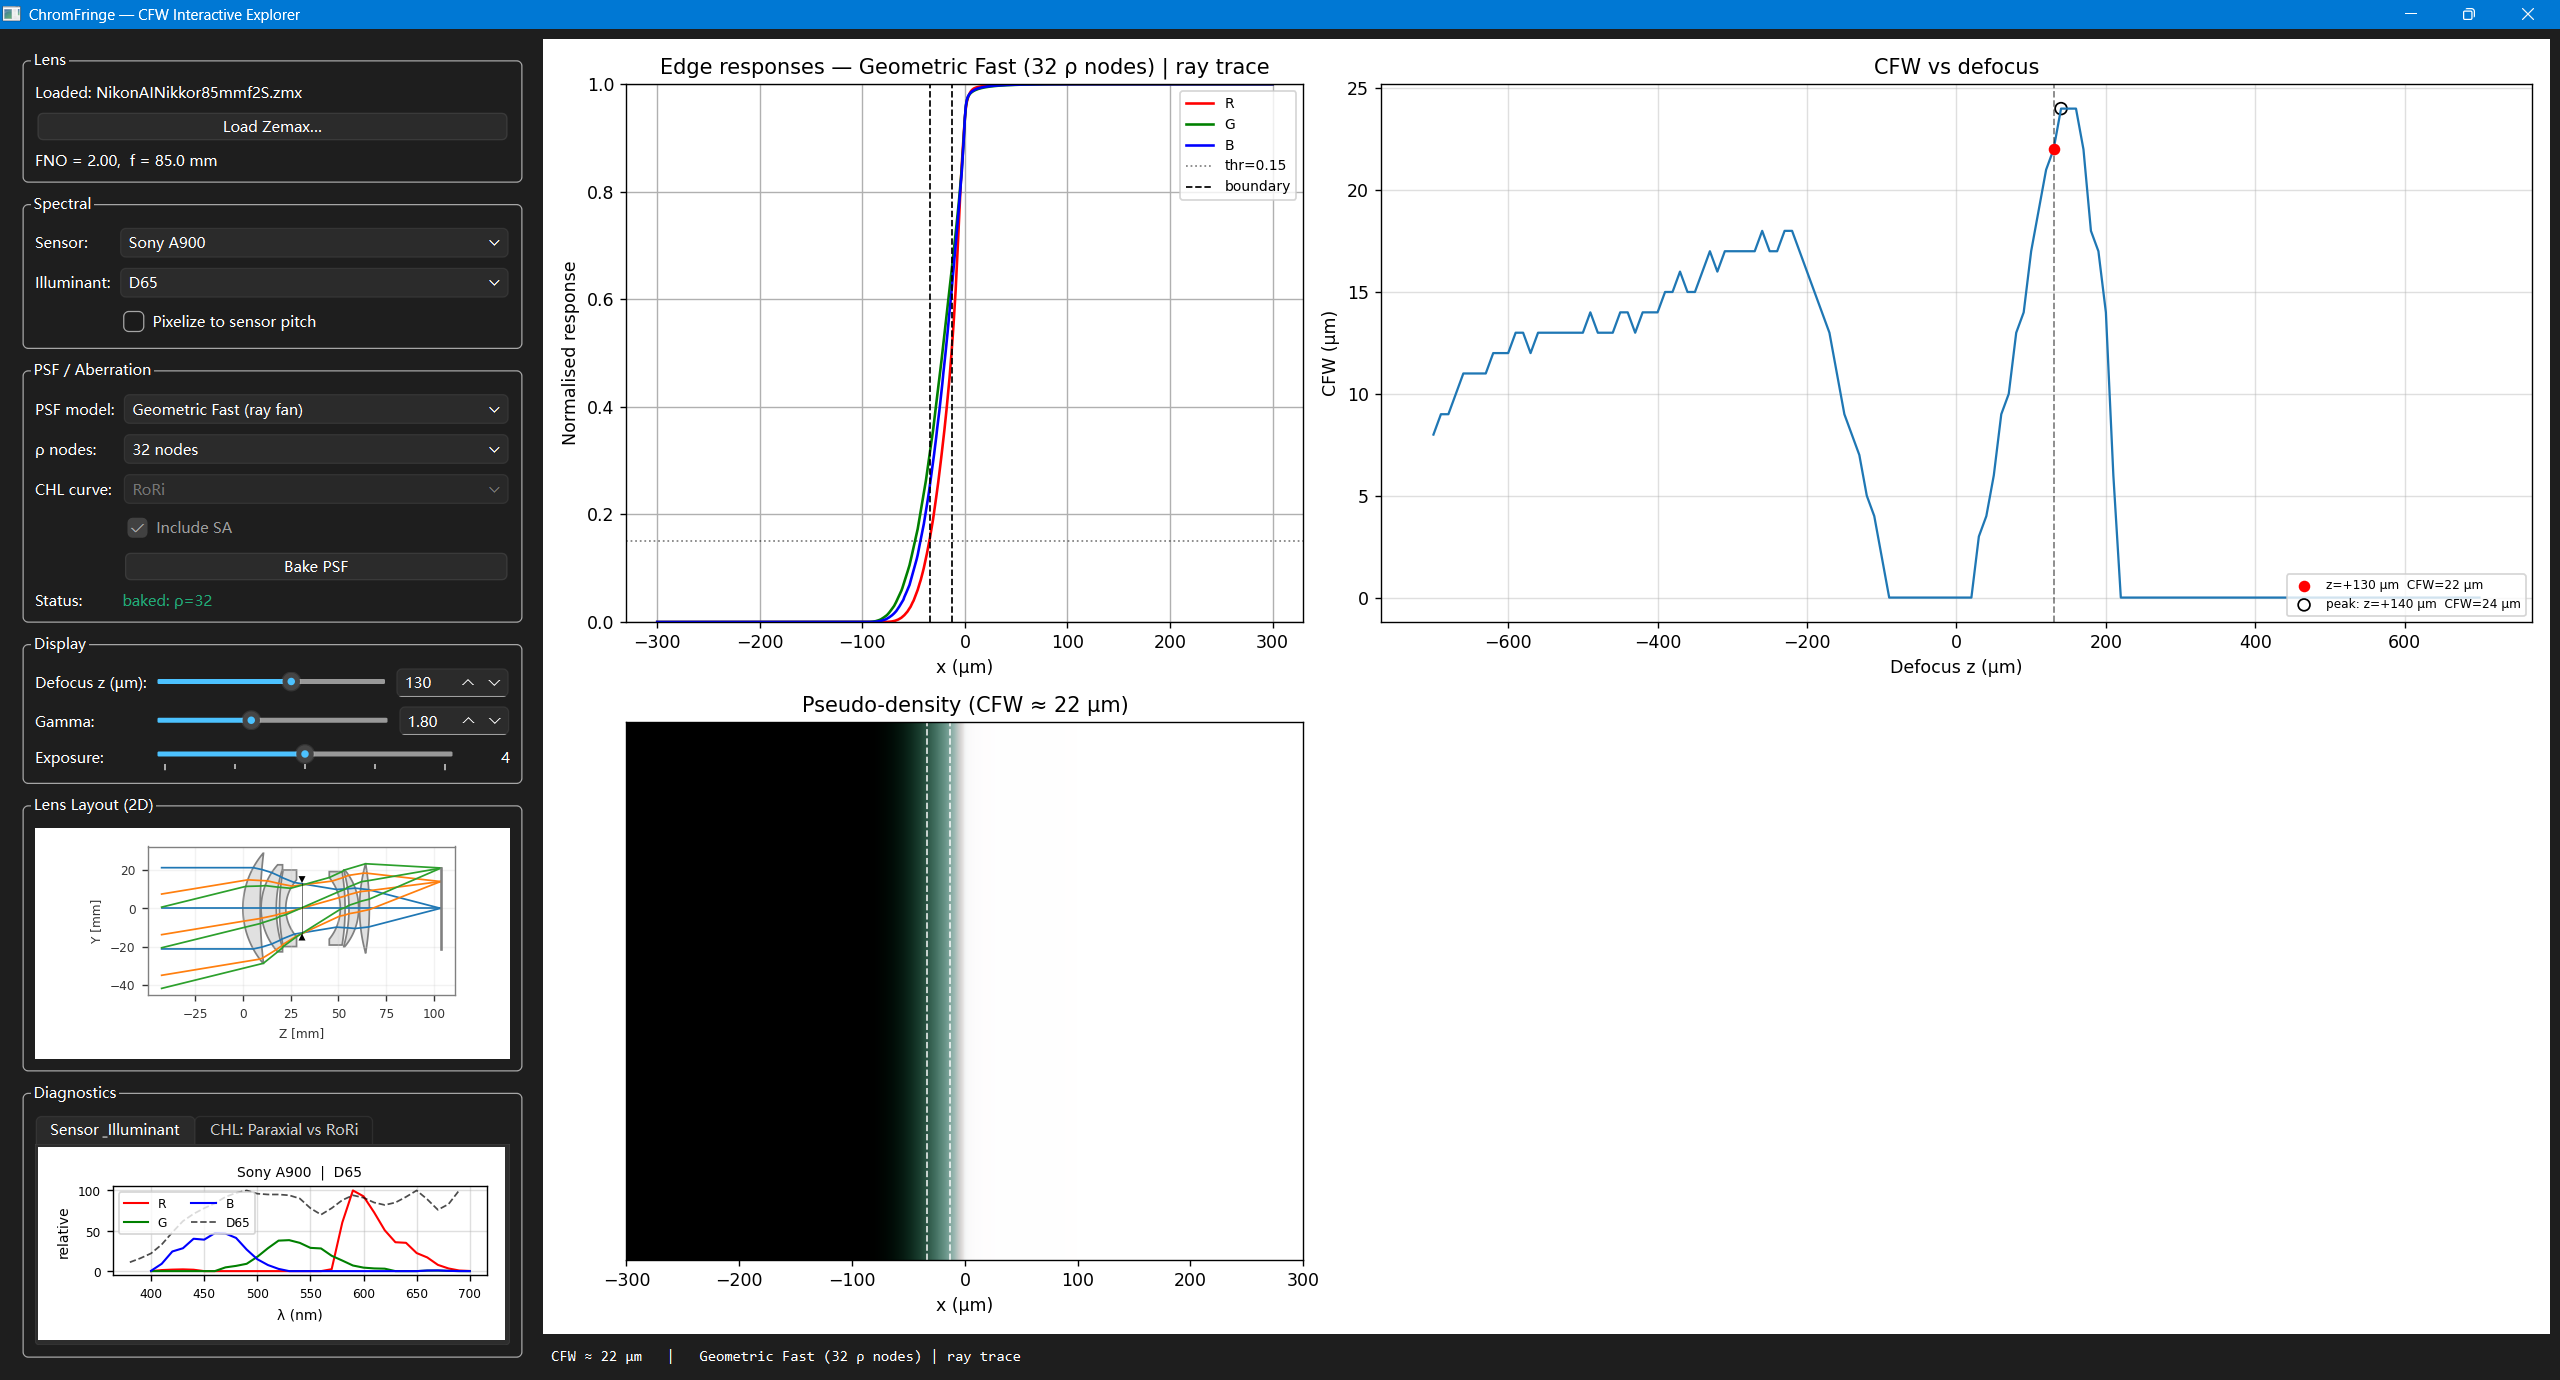
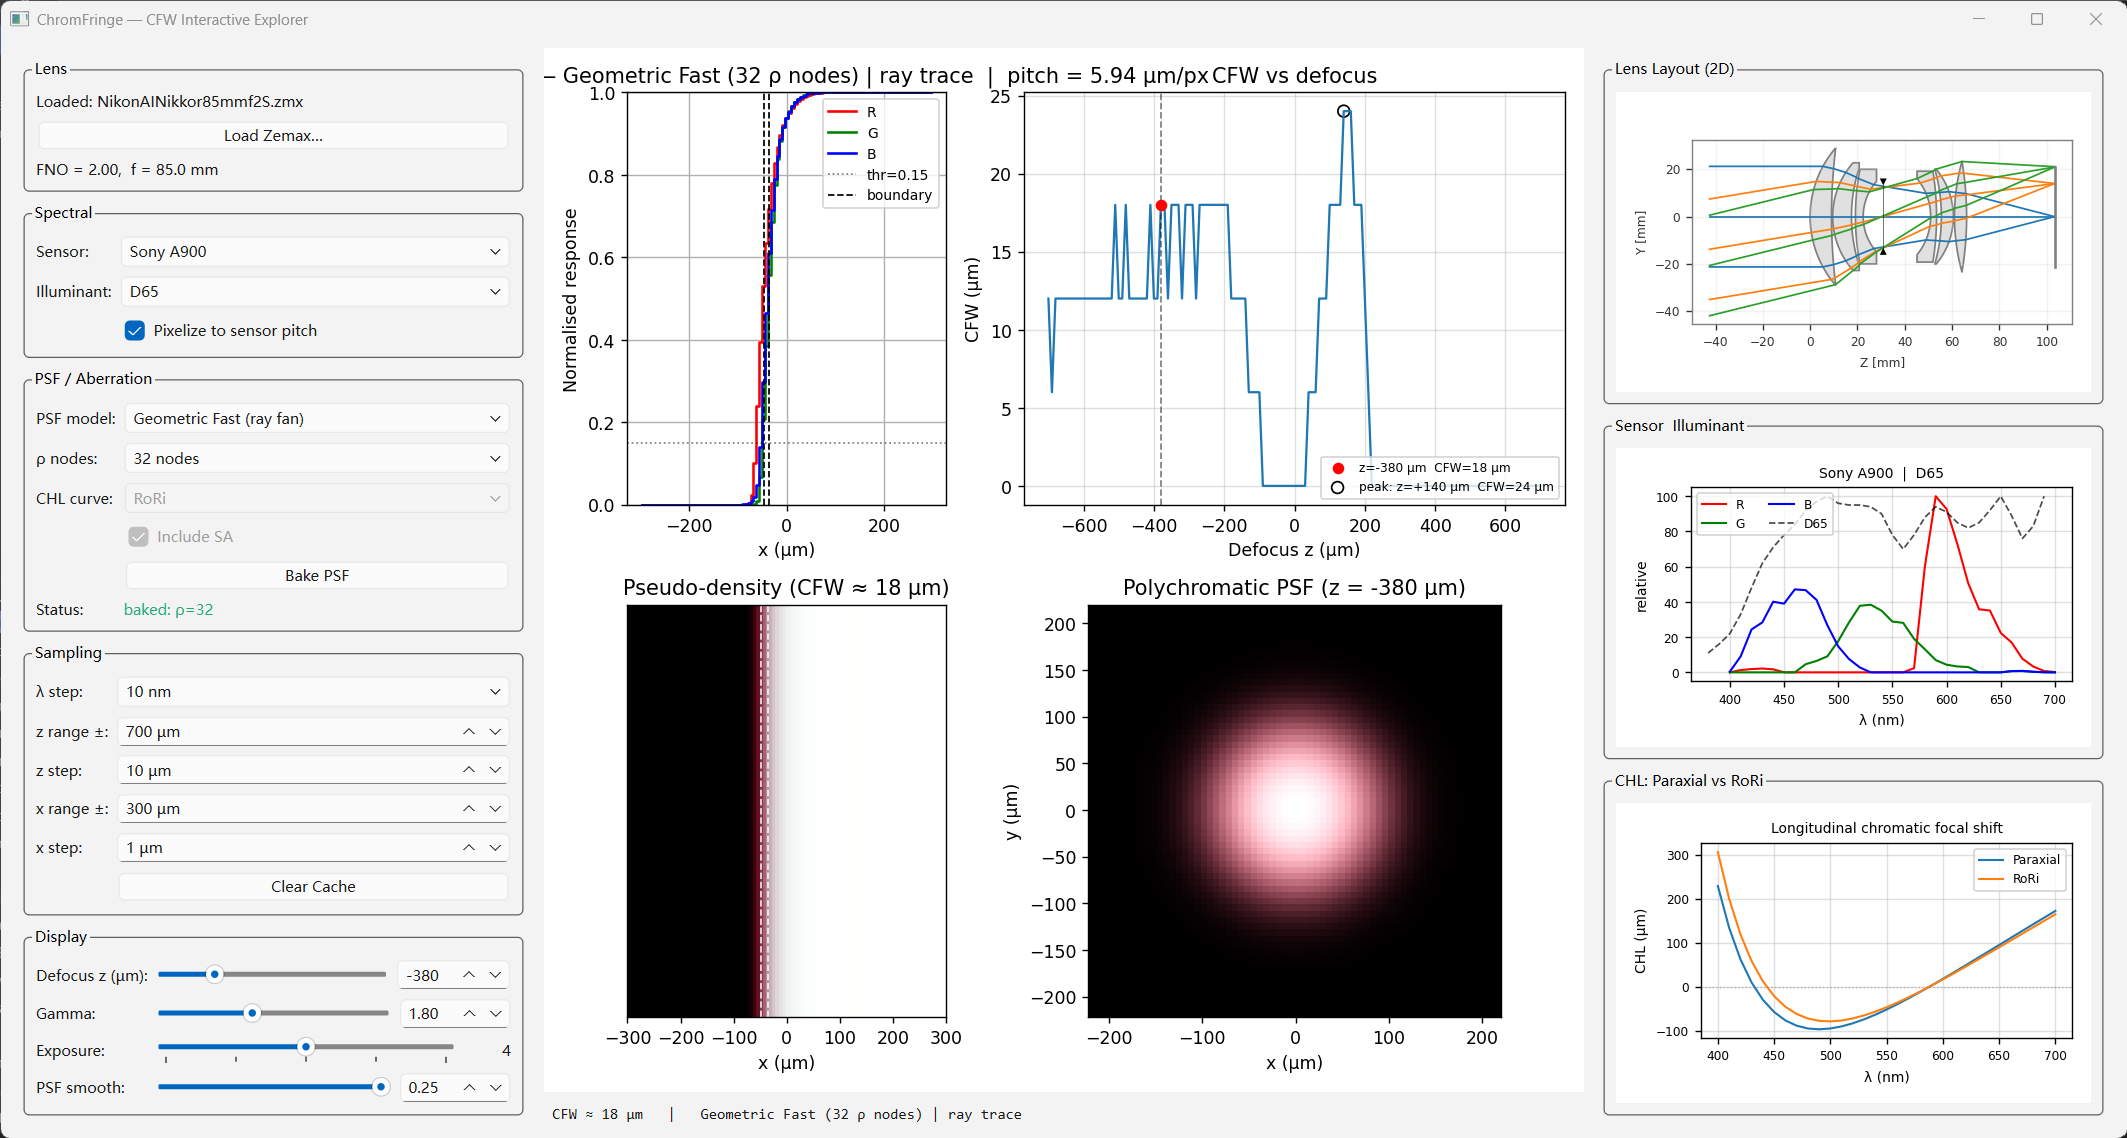
normalize Ray-fan PSF to center=1, apply pixelization to polyPSF plot

diff --git a/src/chromf/gui.py b/src/chromf/gui.py
@@ -36,6 +36,8 @@ from optiland import fileio
 from optiland.physical_apertures import RadialAperture
 from optiland.visualization import OpticViewer
 
+from scipy.ndimage import gaussian_filter
+
 from chromf import (
     channel_products,
     compute_chl_curve,
@@ -176,20 +178,40 @@ def tone_map(raw: np.ndarray, exposure: float, gamma: float) -> np.ndarray:
 
 
 def psf_2d_geom(rf: dict, z: float, n: int = 200,
-                extent_um: float | None = None) -> tuple[tuple, np.ndarray]:
+                extent_um: float | None = None,
+                rho_dense_n: int = 512,
+                smooth_factor: float = 0.25,
+                ) -> tuple[tuple, np.ndarray]:
     """Polychromatic geometric PSF as an RGB image, from a baked ray fan.
 
-    Each (ρ_k, λ_j) pupil-zone ray lands at radius ``R = |TA0 + slope·z|``;
-    we histogram those radii (weighted by ρ·W_gl pupil-area weights and
-    ``g_norm`` per channel) and revolve into a 2-D image.
-    """
-    TA0   = rf["TA0"]
-    slope = rf["slope"]
-    rho   = rf["rho_nodes"]
-    W_gl  = rf["W_gl"]
+    Each pupil zone ρ at wavelength λ lands at image radius
+    ``R(ρ; z, λ) = |TA0(ρ, λ) + slope(ρ, λ) · z|``.  The baked ray fan only
+    has K (default 32) Gauss-Legendre ρ nodes — too sparse for a smooth
+    radial histogram at large defocus, where adjacent radii can be wider
+    than a bin and create empty-bin black-ring artefacts.
 
-    R = np.abs(TA0 + slope * float(z))                  # (K, N_wl)
-    pupil_w = (rho * W_gl)[:, None]                     # (K, 1)
+    We linearly interpolate TA0 and slope onto a dense uniform ρ grid
+    (default 512 points) before histogramming.  Pupil-area weights become
+    the trivial ``ρ · Δρ`` and per-channel ``g_norm`` is interpolated onto
+    that dense grid (constant per λ, so just copied).
+    """
+    TA0_k   = rf["TA0"]                                 # (K, N_wl)
+    slope_k = rf["slope"]
+    rho_k   = rf["rho_nodes"]                           # (K,)
+    K, N_wl = TA0_k.shape
+
+    rho_d = np.linspace(rho_k[0], rho_k[-1], rho_dense_n)
+    drho  = float(rho_d[1] - rho_d[0])
+
+    # Linear interpolation along ρ for each wavelength column.
+    TA0   = np.empty((rho_dense_n, N_wl), dtype=np.float64)
+    slope = np.empty_like(TA0)
+    for j in range(N_wl):
+        TA0[:, j]   = np.interp(rho_d, rho_k, TA0_k[:, j])
+        slope[:, j] = np.interp(rho_d, rho_k, slope_k[:, j])
+
+    R = np.abs(TA0 + slope * float(z))                  # (rho_dense_n, N_wl)
+    pupil_w = (rho_d * drho)[:, None]                   # (rho_dense_n, 1)
 
     if extent_um is None:
         extent_um = max(50.0, 1.5 * float(R.max()))
@@ -206,10 +228,22 @@ def psf_2d_geom(rf: dict, z: float, n: int = 200,
     img = np.zeros((n, n, 3), dtype=np.float64)
     for c, ch in enumerate(("R", "G", "B")):
         g = rf[ch]["g_norm"]                            # (N_wl,)
-        weights = (pupil_w * g[None, :]).ravel()        # (K · N_wl,)
+        weights = (pupil_w * g[None, :]).ravel()
         I_r, _ = np.histogram(R.ravel(), bins=edges, weights=weights)
         I_r = I_r / ring_area
         img[:, :, c] = np.interp(R_2d, centers, I_r, left=I_r[0], right=0.0)
+
+    # Soften the spherical-aberration caustic so the centre doesn't read
+    # as non-physically pitch-black.  σ scales with R_max so far-defocus
+    # PSFs (whose caustic dark holes are also bigger) get proportionally
+    # more blur, mimicking diffraction + glass scatter fill-in in real
+    # imaging.  PSF outer envelope is preserved; only fine ring structure
+    # is softened.
+    pixel_um = 2.0 * extent_um / n
+    if smooth_factor > 0.0:
+        sigma_um = max(2.0, float(smooth_factor) * float(R.max()))
+        sigma_px = sigma_um / pixel_um
+        img = gaussian_filter(img, sigma=(sigma_px, sigma_px, 0.0))
 
     return (-extent_um, extent_um, -extent_um, extent_um), img
 
@@ -592,9 +626,14 @@ class ChromFringeWindow(QtWidgets.QMainWindow):
         self.sl_z = FloatSlider(-DEFOCUS_RANGE, DEFOCUS_RANGE, DEFOCUS_STEP, 0.0)
         self.sl_g = FloatSlider(1.0, 3.0, 0.1, GAMMA_DEFAULT)
         self.sl_e = ChoiceSlider([1, 2, 4, 8, 16], EXPOSURE_DEFAULT)
+        # PSF caustic-smoothing factor σ = factor × R_max.  0 = raw geometric
+        # caustic (sharp rings, dark centre); 0.25 = heavy diffraction-style
+        # smoothing (centre always white, rings soft).  Geom mode only.
+        self.sl_psf_smooth = FloatSlider(0.0, 0.25, 0.05, 0.25)
         dg.addRow("Defocus z (µm):", self.sl_z)
         dg.addRow("Gamma:",          self.sl_g)
         dg.addRow("Exposure:",       self.sl_e)
+        dg.addRow("PSF smooth:",     self.sl_psf_smooth)
         cl.addWidget(gb_disp)
         cl.addStretch(1)
 
@@ -656,6 +695,7 @@ class ChromFringeWindow(QtWidgets.QMainWindow):
         self.sl_z.valueChanged.connect(self._refresh_plot)
         self.sl_g.valueChanged.connect(self._refresh_plot)
         self.sl_e.valueChanged.connect(self._refresh_plot)
+        self.sl_psf_smooth.valueChanged.connect(self._refresh_plot)
 
         self._update_widget_states()
 
@@ -686,6 +726,8 @@ class ChromFringeWindow(QtWidgets.QMainWindow):
         # curve is RoRi-derived).  Disable the checkbox elsewhere so the UI
         # reflects what _refresh_plot actually consumes.
         self.chk_sa.setEnabled(not is_geom and is_rori)
+        # PSF smooth only affects the geometric-caustic ray-fan PSF.
+        self.sl_psf_smooth.setEnabled(is_geom)
 
     # ── Lens actions ────────────────────────────────────────────────────
     def _action_load_zmx(self):
@@ -1226,17 +1268,53 @@ class ChromFringeWindow(QtWidgets.QMainWindow):
         ax4 = fig.add_subplot(gs[1, 1])
         try:
             if psf_idx == self.PSF_GEOM:
-                extent, psf_img = psf_2d_geom(rf, z)
+                extent, psf_img = psf_2d_geom(
+                    rf, z, smooth_factor=float(self.sl_psf_smooth.value())
+                )
             else:
                 psf_mode_str = "gauss" if psf_idx == self.PSF_GAUSS else "disc"
                 extent, psf_img = psf_2d_analytic(
                     chl, sa, self._fno, self._sensor_response,
                     z, psf_mode_str,
                 )
-            peak = float(psf_img.max())
-            disp = psf_img / peak if peak > 0 else psf_img
+            # Optional sensor-pixel discretisation: box-average the fine PSF
+            # onto blocks the size of the sensor pitch, mirroring what the
+            # physical sensor would integrate per pixel.
+            if pixelize:
+                sensor_id = self.cb_sensor.currentData() or "sonya900"
+                pitch = SENSOR_PIXEL_PITCH_UM.get(sensor_id,
+                                                  float(self.sb_x_step.value()))
+                fine_px = 2.0 * extent[1] / psf_img.shape[0]
+                factor = max(1, int(round(pitch / fine_px)))
+                if factor > 1:
+                    h, w, _ = psf_img.shape
+                    h_new, w_new = h // factor, w // factor
+                    crop = psf_img[:h_new * factor, :w_new * factor]
+                    psf_img = crop.reshape(h_new, factor, w_new, factor, 3).mean(
+                        axis=(1, 3))
+                    half = factor * fine_px / 2.0
+                    extent = (extent[0] + (extent[0] % pitch) + 0.0,
+                              extent[1] - (extent[1] % pitch),
+                              extent[2] + (extent[2] % pitch) + 0.0,
+                              extent[3] - (extent[3] % pitch))
+            # Per-channel normalisation referenced to the centre pixel (or a
+            # small central patch on the fine grid) so the on-axis point
+            # always saturates to white regardless of caustic spread.
+            disp = psf_img.copy()
+            h, w = disp.shape[:2]
+            cy, cx = h // 2, w // 2
+            patch = max(0 if pixelize else 2, min(h, w) // 40)
+            for c in range(3):
+                if patch > 0:
+                    ref = float(disp[cy - patch:cy + patch + 1,
+                                     cx - patch:cx + patch + 1, c].mean())
+                else:
+                    ref = float(disp[cy, cx, c])
+                if ref > 0:
+                    disp[:, :, c] /= ref
             ax4.imshow(np.clip(disp, 0.0, 1.0), extent=extent,
-                       origin="lower", interpolation="bilinear")
+                       origin="lower",
+                       interpolation="nearest" if pixelize else "bilinear")
         except Exception as e:  # noqa: BLE001
             ax4.text(0.5, 0.5, f"PSF unavailable\n({type(e).__name__})",
                      ha="center", va="center", transform=ax4.transAxes,
